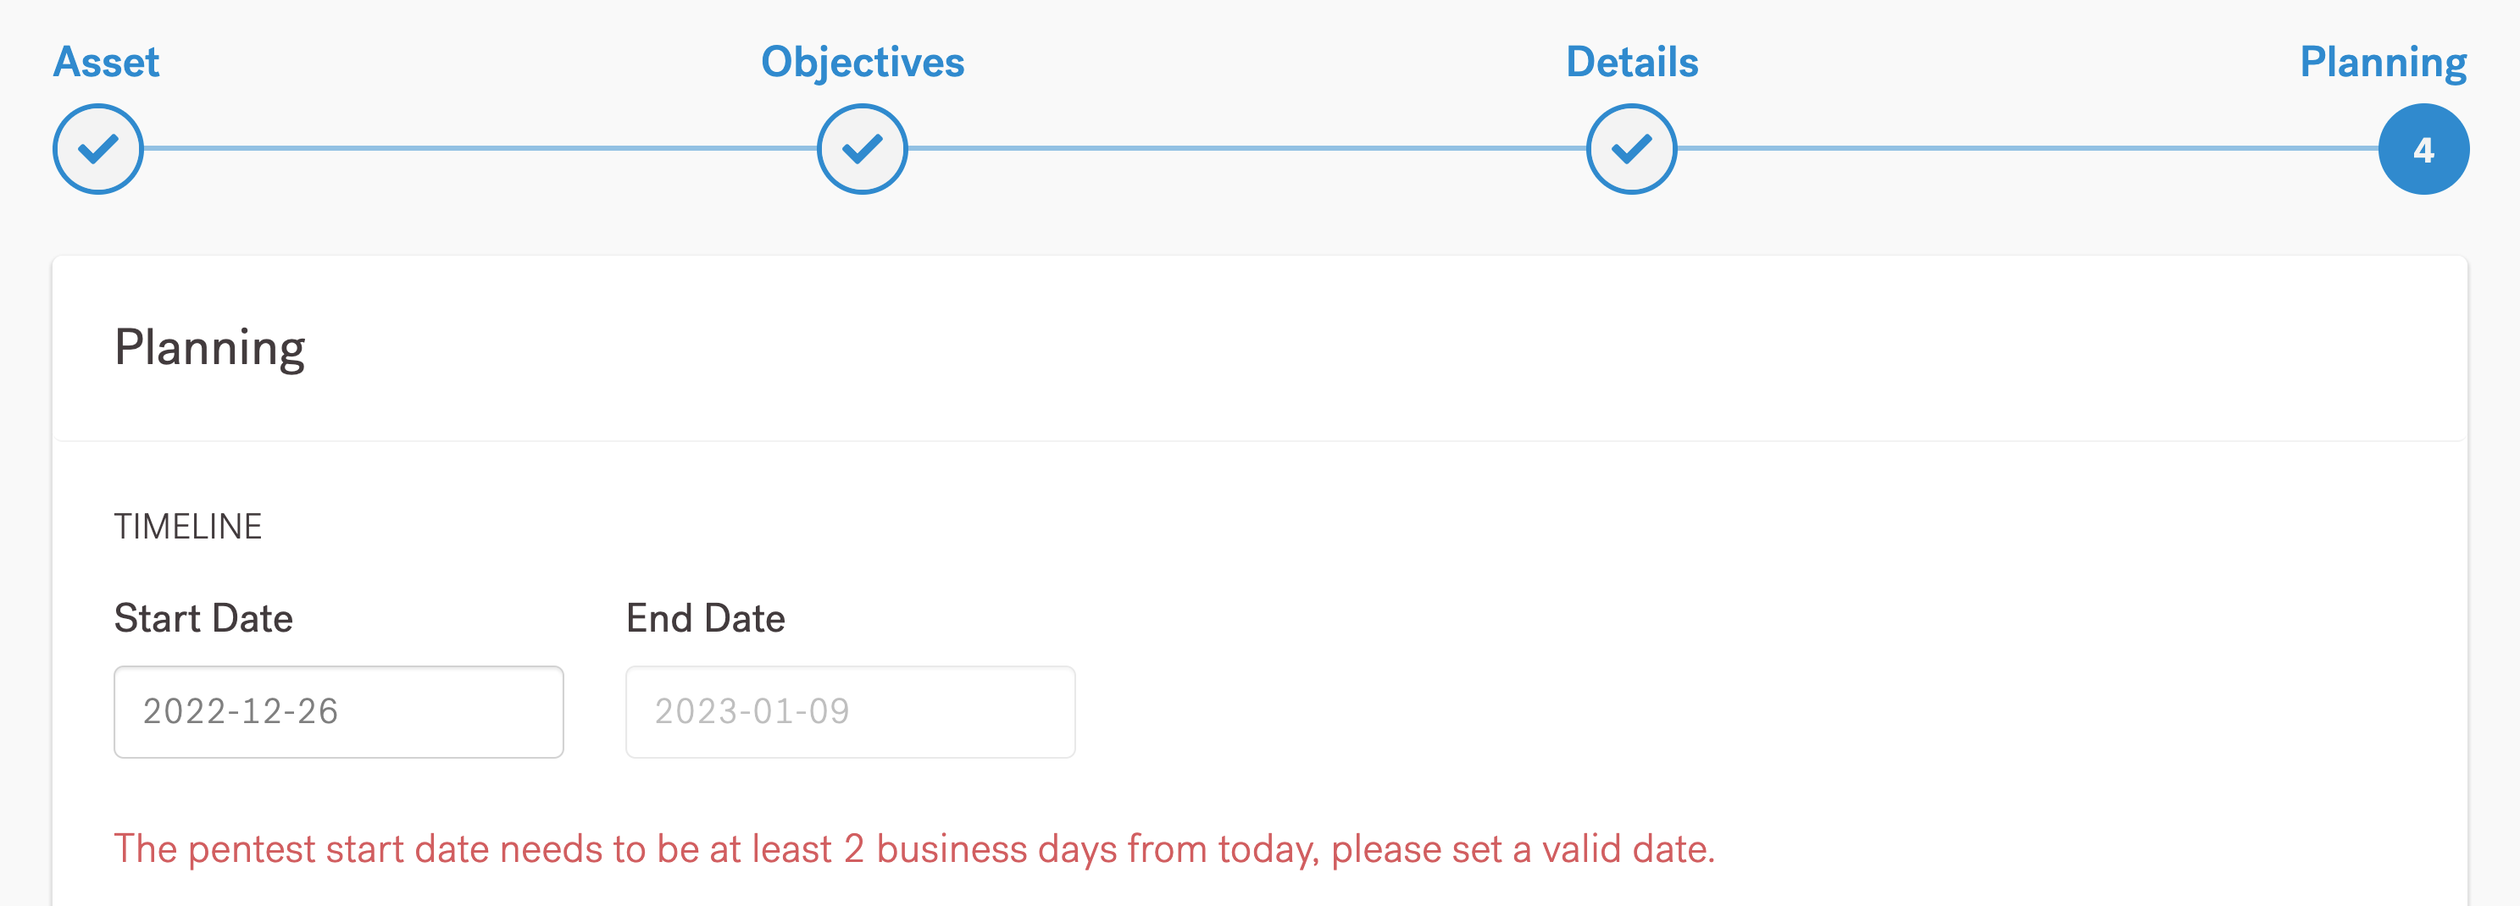
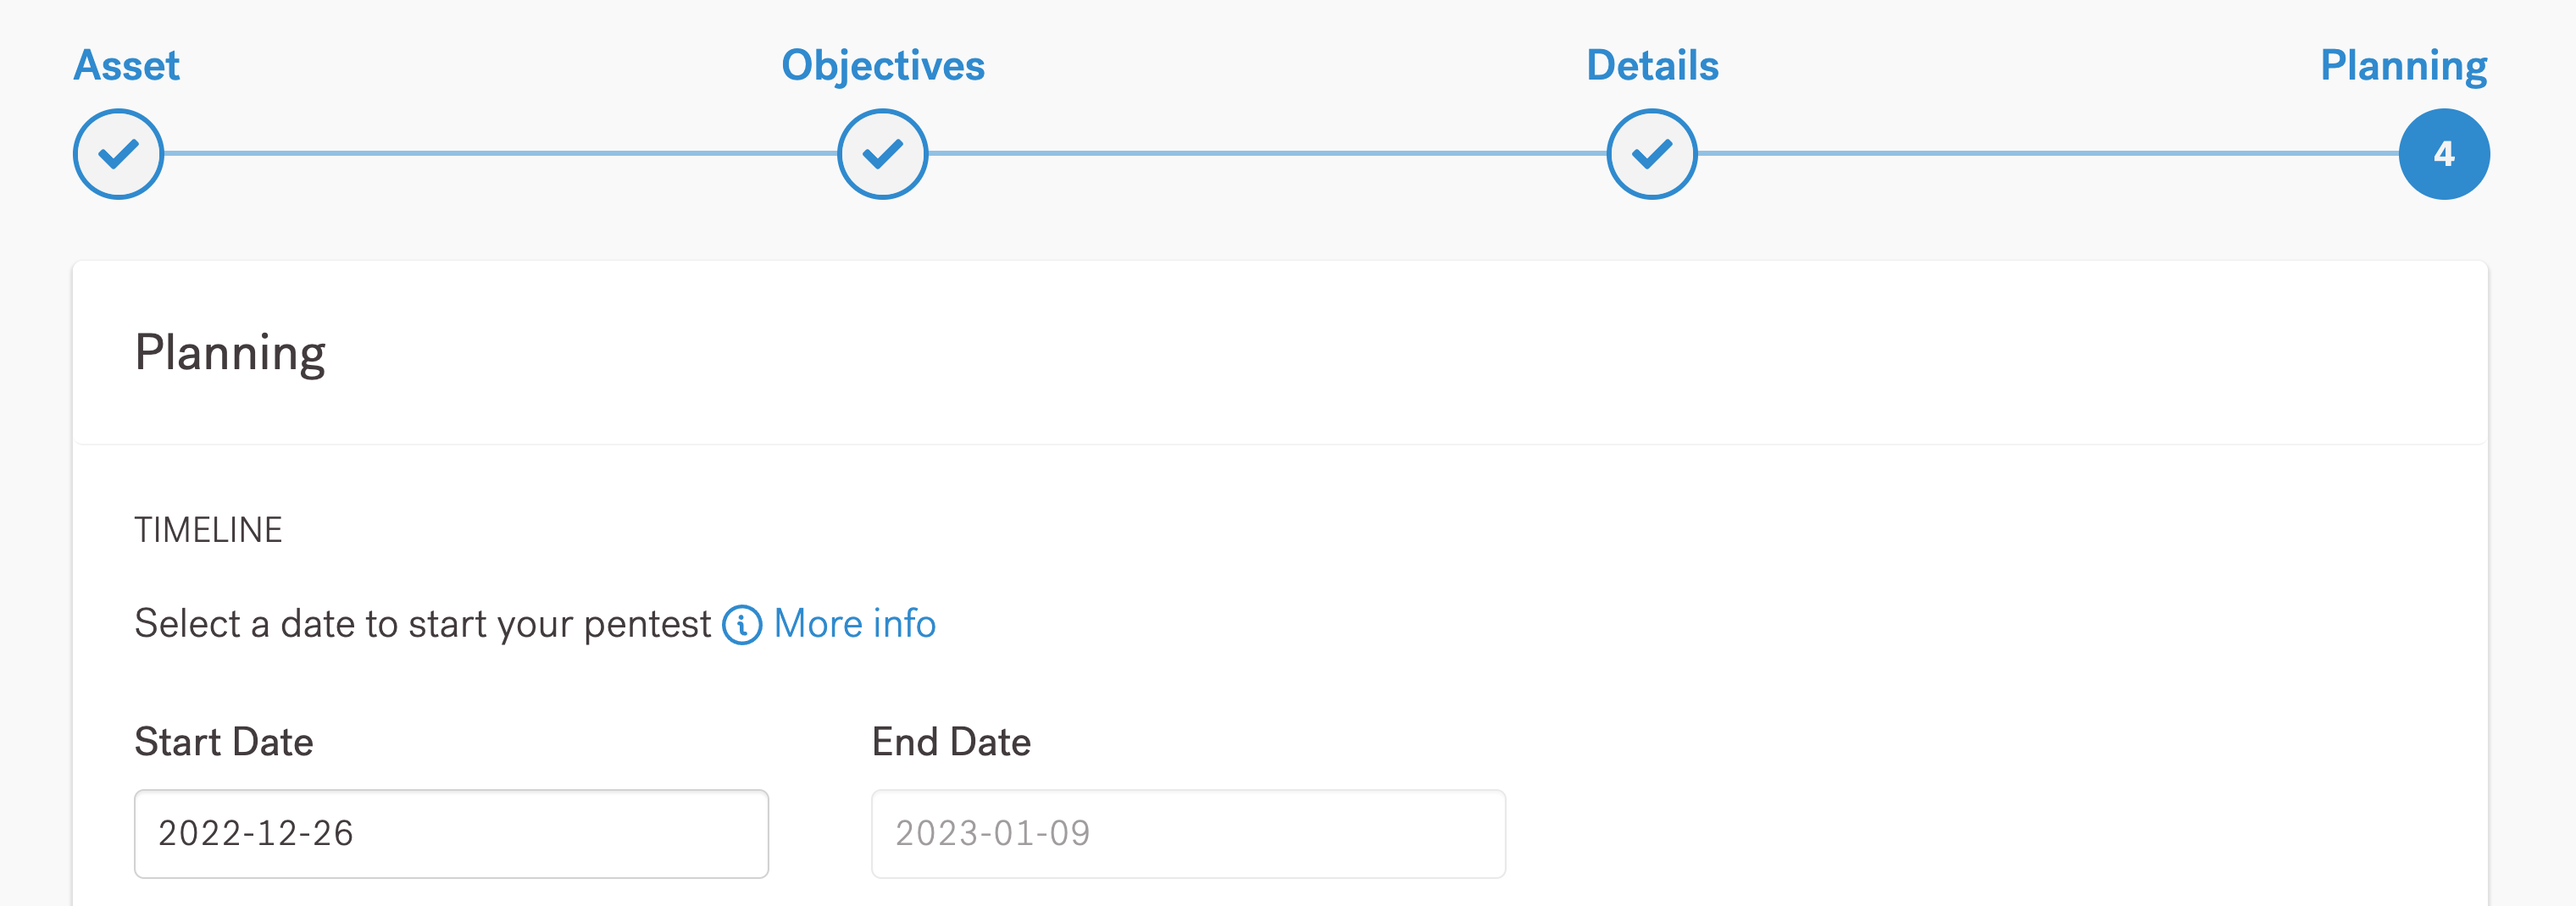
[DOCS-61] Update pentest planning description for Tiers
- Update planning, sign-in pages for changes to pentest flowtime, SAML tier

diff --git a/content/en/Getting started/planning.md b/content/en/Getting started/planning.md
@@ -10,14 +10,19 @@ description: >
 Now you can set a date for the pentest.
 {{% /pageinfo %}}
 
-By default, we can help you schedule pentests with a start date at least
-two (2) business days after you select "Submit for Review."
+Depending on your [Service Tier](https://cobaltio.zendesk.com/hc/en-us/articles/4408839706132-Service-Tiers),
+we can help you schedule pentests with a start date from at least one to three business days after
+after you select "Submit for Review."
 
 We reserve two (2) weeks to complete our pentests.
 
-![Pentester Planning](/gsg/PentestPlanning.png "Schedule your pentest. Start at least 2 business days from today.")
+![Pentester Planning](/gsg/PentestPlanning.png "Schedule your pentest. Your allowed start date depends on your Service Tier and any special requirements.")
 
 On the Pentest Planning screen, you can also update the asset scope, and the number of credits required for the test.
+
+If you have any special requirements, such as qualifications for pentester certifications,
+we reserve the right to start the pentest later than the flow time specified in your
+[Service Tier](https://cobaltio.zendesk.com/hc/en-us/articles/4408839706132-Service-Tiers).
 
 ## Additional Requests
 

diff --git a/content/en/Getting started/sign-in.md b/content/en/Getting started/sign-in.md
@@ -49,12 +49,11 @@ Now you can:
 
 1. Select **Create a Pentest**. Now proceed to the next step, [Define Your Assets](../assets).
 
-{{% alert title="Note" color="note" %}}
+## Authentication
+
 We support two-factor authentication. After you sign in, select the icon in the upper-right
 corner and select **Security Settings**.
 
-We also support SAML (Security Assertion Markup Language), which supports SSO
+If you've subscribed to the [Enterprise Tier](https://cobaltio.zendesk.com/hc/en-us/articles/4408839706132), we also support SAML (Security Assertion Markup Language), which supports SSO
 (Single Sign-On) based on third party accounts such as Google. To set up SAML,
 select **Settings > Identity & Access** from the left-hand menu.
-{{% /alert %}}
-
